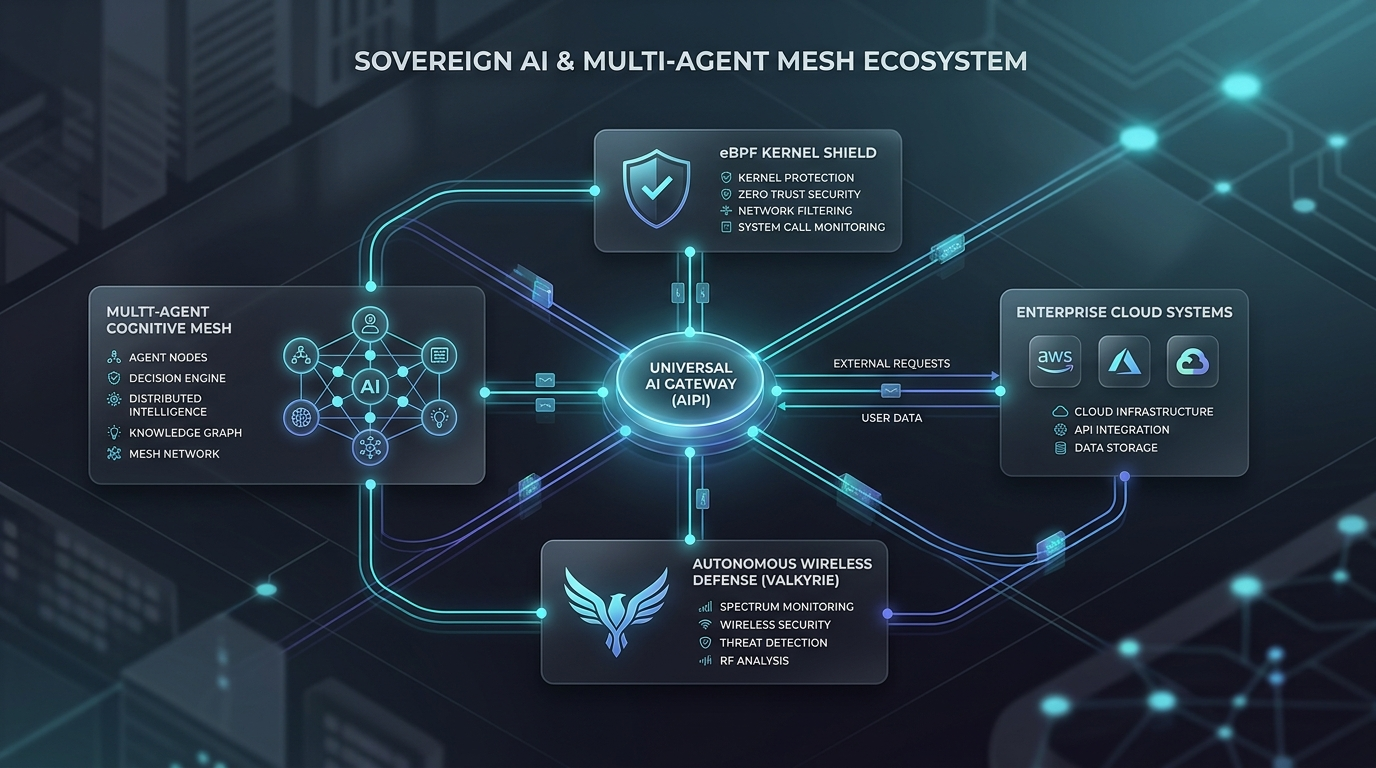
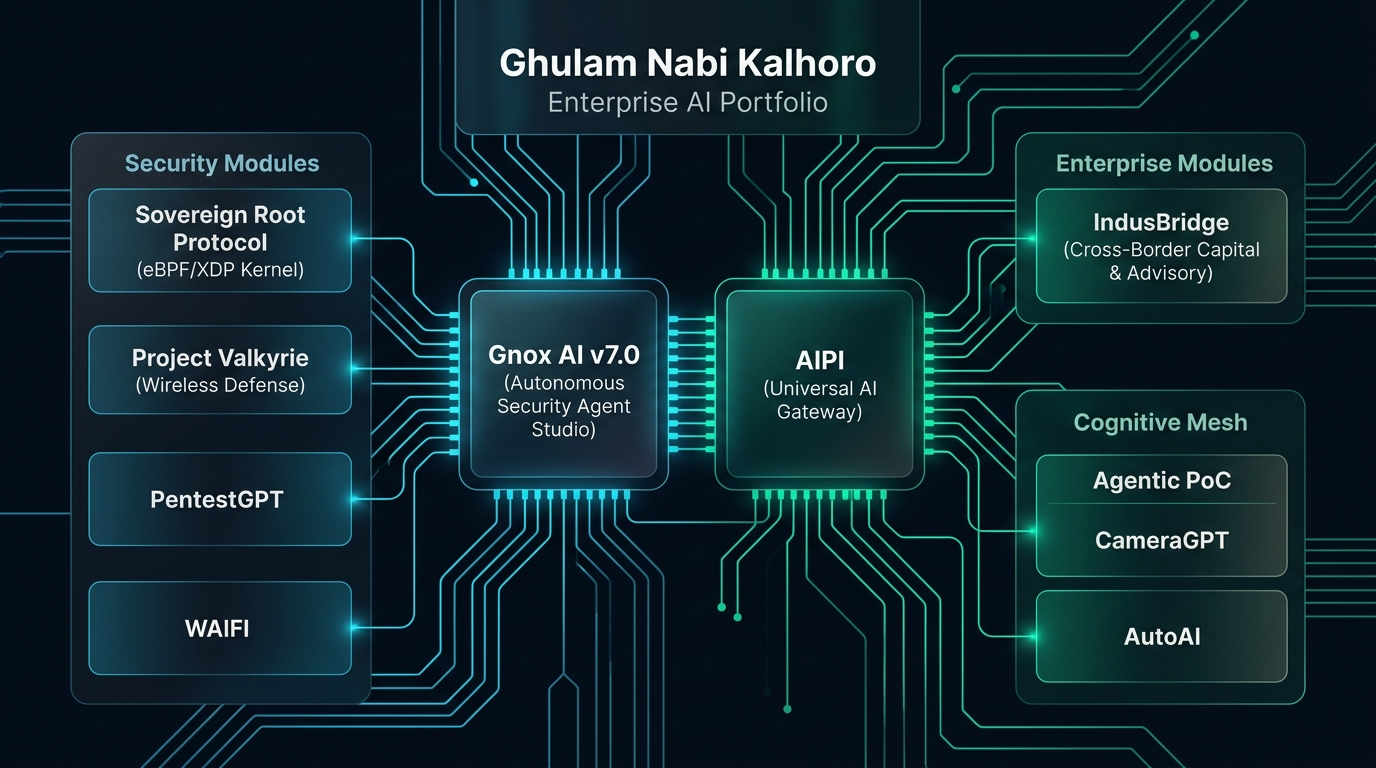
feat(profile): add Gnox AI v7.0 VIP spotlight, master hero with all projects, and complete ecosystem map

diff --git a/README.md b/README.md
@@ -13,9 +13,10 @@
 <br/>
 
 [![Profile Views](https://komarev.com/ghpvc/?username=gnonymous1&style=flat-square&color=0284c7&label=PROFILE+VIEWS)](https://github.com/gnonymous1)
-[![Public Repositories](https://img.shields.io/badge/Public_Repositories-11_Active-0d9488?style=flat-square)](https://github.com/gnonymous1?tab=repositories)
+[![Flagship Agent](https://img.shields.io/badge/Flagship-Gnox_AI_v7.0-00f2fe?style=flat-square)](#-vip-flagship-spotlight--gnox-ai-v70)
 [![Firm](https://img.shields.io/badge/Firm-IndusBridge_Capitals_%26_Systems-6366f1?style=flat-square)](https://linkedin.com/in/gnkalhoro)
-[![Architecture](https://img.shields.io/badge/Architecture-Sovereign_AI_Systems-8b5cf6?style=flat-square)](#)
+[![Public Repositories](https://img.shields.io/badge/Public_Repositories-11_Active-0d9488?style=flat-square)](https://github.com/gnonymous1?tab=repositories)
+[![Architecture](https://img.shields.io/badge/Architecture-Sovereign_AI_%26_eBPF-8b5cf6?style=flat-square)](#-sovereign-ai--multi-agent-architecture)
 
 </div>
 
@@ -25,29 +26,57 @@
 
 > **"Build controls that actually enforce, not policies that merely document."**
 
-I am the **Chief Executive Officer (CEO) at IndusBridge** and an **Enterprise Solutions Architect** designing high-concurrency cross-border investment platforms and sovereign technical architectures.
+I am the **Chief Executive Officer (CEO) at IndusBridge** and an **Enterprise Solutions Architect** designing high-concurrency cross-border investment platforms, sovereign cognitive architectures, and autonomous AI systems.
 
-My executive and engineering mandate unifies:
-* 🌐 **Cross-Border Advisory & Systems ([IndusBridge](https://linkedin.com/in/gnkalhoro)):** Bridging Pakistan, MENA (Dubai Desk: GulfCapital Systems), and Europe across priority economic corridors: **IT & AI · Real Estate · Mines & Minerals · Power & Energy**. Internal AI engines for deal origination, compliance audits, and SIFC strategic alignment.
-* 🧠 **Universal AI Protocol Gateways:** High-throughput model routing, smart token preservation, and zero-downtime failover across 189+ LLM providers (`AIPI`).
-* 🛡 **Kernel-Level Infrastructure Defense:** Real-time packet enforcement and prompt-injection firewalls directly in Linux network paths using eBPF & XDP bypass hooks (`sovereign-root-protocol`).
-* ⚡ **Autonomous Multi-Agent Systems:** Cognitive wireless security agents, automated vulnerability inspection pipelines, and distributed swarm telemetry (`project-valkyrie`, `pentestgpt-web`).
+My work unifies four strategic pillars:
+* 🌐 **Cross-Border Advisory & Systems ([IndusBridge](https://linkedin.com/in/gnkalhoro)):** Bridging Pakistan, MENA (Dubai Desk: GulfCapital Systems), and Europe across priority economic corridors: **IT & AI · Real Estate · Mines & Minerals · Power & Energy**. Custom internal AI pipelines for deal origination, compliance auditing, and SIFC strategic alignment.
+* 🤖 **Autonomous Cybersecurity Agent Systems ([Gnox AI v7.0](#-vip-flagship-spotlight--gnox-ai-v70)):** Multi-agent cognition, dynamic DAG planning, and real sandboxed security tool execution.
+* 🧠 **Universal AI Protocol Gateways ([AIPI](https://github.com/gnonymous1/AIPI)):** High-throughput model routing, smart token preservation, and zero-downtime failover across 189+ LLM providers.
+* 🛡 **Kernel-Level Infrastructure Defense ([sovereign-root-protocol](https://github.com/gnonymous1/sovereign-root-protocol)):** Real-time packet enforcement and prompt-injection firewalls directly in Linux network paths using eBPF & XDP bypass hooks.
 
 ---
 
-## 🌐 Sovereign AI & Enterprise Ecosystem
+## 🌟 VIP Flagship Spotlight — Gnox AI v7.0
+
+### Autonomous Cybersecurity Agent Platform & Studio
+
+> **Confidential & Proprietary Enterprise Platform**  
+> *Developed by Ghulam Nabi Kalhoro (gnkalhoro) — CEO @ IndusBridge*
+
+**Gnox AI v7.0** is an autonomous cybersecurity platform combining frontier generative reasoning with real, sandboxed offensive and defensive tooling. Rather than acting as a passive chatbot, Gnox operates as an **autonomous multi-agent supervisor** capable of planning, executing, verifying, observing, and self-correcting across multi-step security operations.
 
 <div align="center">
 
-<img src="assets/ecosystem_map.jpg" alt="Sovereign AI & Enterprise Ecosystem" width="100%" style="border-radius: 10px; max-width: 950px;"/>
+<img src="assets/gnox_studio_live.jpg" alt="Gnox AI Studio v7.0 Live Interface" width="100%" style="border-radius: 10px; max-width: 950px; box-shadow: 0 4px 25px rgba(0, 242, 254, 0.15);"/>
+
+*Figure 1: Gnox AI Studio v7.0 Live Interface — 3-Pane IDE featuring real-time Tool Monitoring Canvas, Dynamic Execution DAG, Streaming Terminal Logs, and Agentic Chat with OmniRoute Healer (400+ Models).*
 
 </div>
 
-The architecture connects core operational layers:
-1. **Advisory & Deal Sourcing Layer:** IndusBridge Cross-Border Investment Platform & Analytics.
-2. **Gateway Layer:** Universal AI Protocol Interface (`AIPI`) routing 189+ model providers.
-3. **Security & Kernel Layer:** eBPF/XDP network-level filters & prompt injection shielding (`sovereign-root-protocol`).
-4. **Cognitive Agent Layer:** Distributed multi-agent swarms, cognitive wireless defense (`project-valkyrie`), and automated penetration engines (`pentestgpt-web`).
+### 🎯 Core Gnox AI Capabilities:
+* **3-Pane Studio IDE:** Left Activity Bar with native tool runners (Nmap, Metasploit, Subfinder, Nuclei), central dynamic DAG canvas with live latencies and terminal streaming, and right Agentic Chat.
+* **OmniRoute Model Healer:** Real-time routing across 400+ frontier models (Claude 3.5, GPT-4o, Gemini Live, local Ollama) with automatic rate-limit healing and failover.
+* **Cognitive Supervisor & Universal DAG Planner:** Converts high-level natural language directives into optimized, acyclic task graphs executed in parallel.
+* **Authoritative Sandboxed Scope Guard:** AST shell parsing blocks obfuscation, subshell injection, and out-of-scope targets before execution.
+* **Tri-Layer Persistent Memory:** Episodic history, vector semantic database (HNSW), and procedural playbooks for zero-hallucination execution.
+
+> 🔒 *Security & IP Notice: All Gnox AI v7.0 underlying core engine code, agent graphs, and proprietary AST inspectors are maintained in a secure, private enterprise repository ([`gnonymous1/gnoxai`](https://github.com/gnonymous1/gnoxai)).*
+
+---
+
+## 🌐 Sovereign AI & Multi-Agent Architecture
+
+<div align="center">
+
+<img src="assets/ecosystem_map.jpg" alt="Master Sovereign AI & Multi-Agent Ecosystem Architecture" width="100%" style="border-radius: 10px; max-width: 950px;"/>
+
+</div>
+
+The master ecosystem map illustrates the interconnected technical layers:
+1. **Core Dual Engine:** **Gnox AI v7.0** (Autonomous Security Agent Studio) and **AIPI** (Universal AI Gateway).
+2. **Security & Kernel Modules:** **Sovereign Root Protocol** (eBPF/XDP Kernel Filter), **Project Valkyrie** (Wireless Defense), **PentestGPT**, and **WAIFI**.
+3. **Enterprise Modules:** **IndusBridge** (Cross-Border Capital & Tech Advisory).
+4. **Cognitive Mesh:** **Agentic PoC**, **CameraGPT**, and **AutoAI**.
 
 ---
 
@@ -136,6 +165,7 @@ The architecture connects core operational layers:
 
 | Project / Venture | Category | Key Tech Stack & Focus | Access |
 |:---|:---|:---|:---:|
+| **[Gnox AI v7.0](https://github.com/gnonymous1/gnoxai)** | Autonomous Cybersecurity Agent Platform | Multi-Agent DAG, OmniRoute Healer, 3-Pane Studio | `FLAGSHIP (SECURE)` |
 | **[IndusBridge](https://linkedin.com/in/gnkalhoro)** | Cross-Border Capital & Tech Advisory | Real Estate · IT/AI · Mines & Minerals · Power | `VENTURE` |
 | **[AIPI](https://github.com/gnonymous1/AIPI)** | Universal AI Routing & Failover | Python, FastAPI, Antigravity, 189 Providers | `PUBLIC` |
 | **[sovereign-root-protocol](https://github.com/gnonymous1/sovereign-root-protocol)** | eBPF/XDP AI Kernel Security | C (Kernel), Python, HAProxy, mTLS | `PUBLIC` |
@@ -155,10 +185,10 @@ The architecture connects core operational layers:
 | Domain | Technologies & Frameworks |
 |:---|:---|
 | **Executive Leadership & Strategy** | Chief Executive Officer (CEO), Cross-Border Deal Origination, B2G Alignment, Governance |
+| **Autonomous AI & Agentic Systems** | Gnox Multi-Agent DAGs, OmniRoute Model Routing, LangGraph, CrewAI, Gemini Multimodal, PyTorch |
 | **Low-Level & Kernel Engineering** | C, C++, Linux Kernel, eBPF, XDP, Assembly (x86/ARM), WireGuard, mTLS |
-| **AI & Agentic Systems** | Multi-Agent Swarms, LangGraph, CrewAI, Gemini Multimodal, PyTorch, pgvector |
-| **Backend & Cloud Infrastructure** | Python (FastAPI), Go, TypeScript, PostgreSQL, Redis, Docker, GCP, Azure |
-| **Offensive & Defensive Security** | Zero-Trust Architecture, Kali Linux, Reverse Engineering, AST Command Guards, AST Shields |
+| **Backend & Cloud Infrastructure** | Python (FastAPI), Go, TypeScript, PostgreSQL (pgvector), Redis, Docker, GCP, Azure |
+| **Offensive & Defensive Security** | Zero-Trust Architecture, Kali Linux, Reverse Engineering, AST Command Guards, Network Telemetry |
 | **Project & Advisory Standards** | Google Certified Project Management, Scrum, SAFe Agile, Tech Incubation (1,500+ ventures) |
 
 ---
